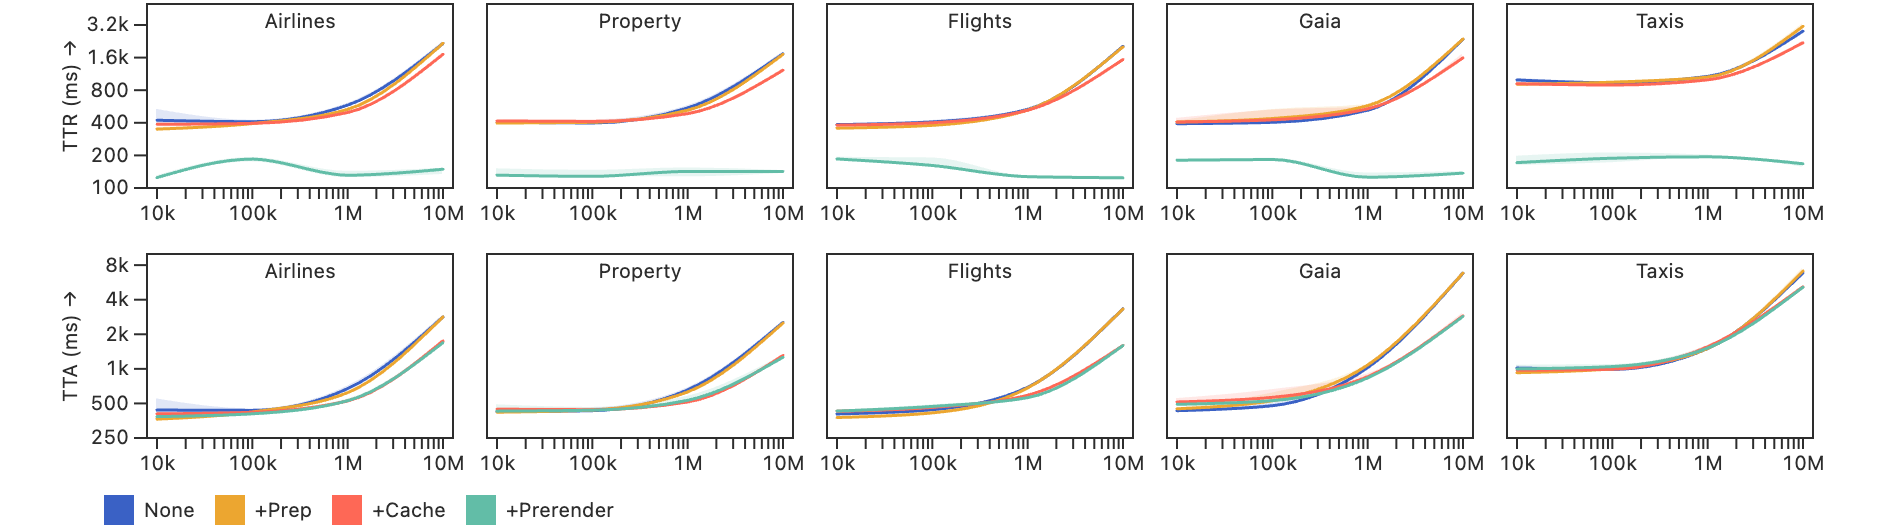
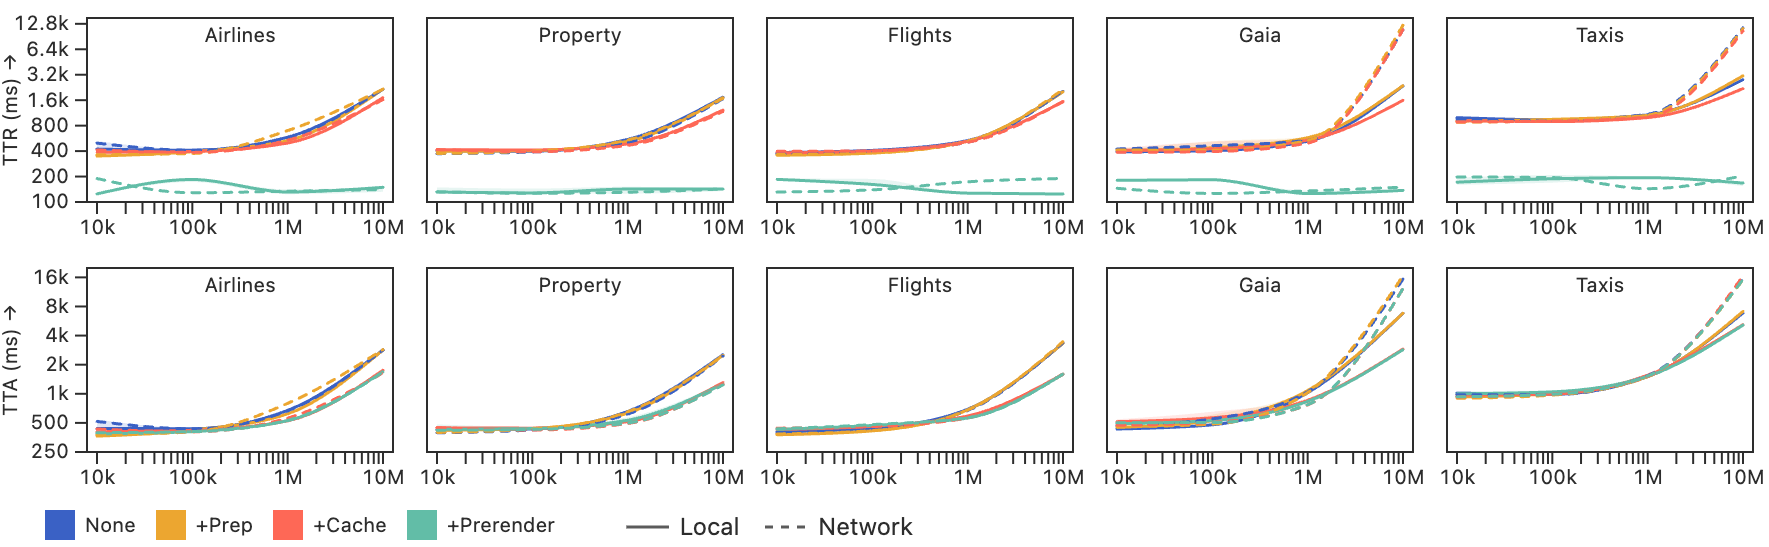
feat: add network benchmark to paper + final changes

Changed region(s): [[0.0, 0.0, 1.0, 0.4242], [0.0, 0.4545, 1.0, 1.0]]

diff --git a/template/template.tex b/template/template.tex
@@ -110,16 +110,14 @@
     {\Large\bfseries <<title>> \par}
     \vspace{1.25cm}
     <<author_names>> \\[2em]
-    A thesis submitted in partial fulfillment of the requirements for the degree of \\[2em]
-    Master of Science (Computer Science \& Engineering) \\[2em]
-    University of Washington \\[1em]
+    A thesis submitted in partial fulfillment of the requirements for the degree of \\[1em]
+    Master of Science (Computer Science \& Engineering) \\
+    University of Washington \\
     2025 \\[2em]
     % Committee members (fill in below)
-    Reading Committee: \\
+    Supervised and Approved by: \\
     % TODO: Fill in committee member names below (no titles, no signatures)
-    \textit{[Committee Member 1]} \\
-    \textit{[Committee Member 2]} \\
-    \textit{[Committee Member 3]} \\[2em]
+    \textit{Jeffrey Heer} \\[2em]
     
     Program Authorized to Offer Degree:\\
     Computer Science \& Engineering
@@ -149,10 +147,8 @@
   {\bfseries Abstract} \\[2em]
   {\large <<title>>} \\[1em]
   <<author_names>> \\[1em]
-  Chair of the Supervisory Committee:\\
-  \textit{[Chair Name]} \\
-  \textit{[Chair Title]} \\
-  \textit{[Chair Department]} \\[2em]
+  Supervised by:\\
+  \textit{Jeffrey Heer} \\[2em]
 \end{center}
 \thispagestyle{plain} % Show page number
 
@@ -197,10 +193,10 @@
 
 % Dedication (after preliminary pages, before main text)
 \clearpage
-\dedication{\begin{center}
-  To my amazing family and girlfriend without whom this thesis would not have been possible.
-  Thank you for your help, love, and support.
-\end{center}}
+% \dedication{\begin{center}
+%   To my amazing family and girlfriend without whom this thesis would not have been possible.
+%   Thank you for your help, love, and support.
+% \end{center}}
 
 % Acknowledgments 
 \clearpage

diff --git a/index.md b/index.md
@@ -51,9 +51,9 @@ To assess their effectiveness, we implement publish-time optimizations for the o
 On average, publish-time strategies reduced rendering latency by 83.7% and activation latency by 33.3%, demonstrating their value for improving the performance of web-based visualizations.
 :::
 
-<!-- ::: acknowledgments
-TODO
-::: -->
+::: acknowledgments
+I would like to extend a heartfelt thank you to my advisor, Jeffery Heer, for his guidance, patience, and to our many thoughtful conversations that shaped this thesis. Thank you as well to my amazing family and my girlfriend---your love, support, and willingness to let me constantly talk about my research made this work possible.
+:::
 
 # Introduction {#intro}
 
@@ -271,53 +271,60 @@ The Mosaic Publisher implementation is available at _anonymized URL_.
 We evaluate the performance impact of the Mosaic Publisher across five visualization specifications (@fig:collage) selected to represent a diverse range of interaction styles, view configurations, and query complexities. These include: **airlines**, a single-view chart with a filter slider and confidence interval overlays; **property**, a raster density plot with interactive regression fits; **flights**, a basic cross-filtering example with linked histograms; **gaia** and **taxis**, complex multi-view dashboards with high-resolution rasters and multiple coordinated selections. (Both the flights and gaia example are taken from the original Mosaic paper [@doi:10.1109/TVCG.2023.3327189].) These examples cover both low and high cardinality selections, different types of interval filtering, and visualization types that stress different optimization paths.
 
 To assess the effects of each optimization category (@sec:characterization), we apply them incrementally: **none** performs all computation at runtime, **+prep** applies data preparation and projection rewrites, **+cache** further precomputes and stores both result caches and materialized aggregates for interaction updates, and **+prerender** adds initial pre-rendered visual outputs with hydration to enable interactivity.
-All benchmarks were run within Node.js v22.9.0 on a 2021 MacBook Pro laptop (14-inch, macOS 15.2) with an M1 Pro processor and 16GB RAM. The visualizations were hosted on a local server with DuckDB-WASM used as the backing database engine.
+All benchmarks were run within Node.js v22.9.0 on a 2021 MacBook Pro laptop (14-inch, macOS 15.2) with an M1 Pro processor and 16GB RAM. Each visualization was accessed locally and tested in two hosting scenarios, local deployment and remote deployment. The remote server used for hosting has 2 14-core 2.6 GHz Intel Xeon Gold processors and 192 GB of RAM running Rocky Linux 9.1, and was accessed from 3 miles away over a WiFi router with a 80Gb/s internet connection. In both hosting scenarios the visualizations used DuckDB-WASM as the backing database engine.
 
-::: table {#raw-data}
+::: table {#raw-data position="h"}
+\vspace{8pt}
 | Optimization | TTR (ms)         | TTA (ms)          | Storage (MB)     | Publish Time (ms)   |
 |--------------|-----------------:|------------------:|-----------------:|--------------------:|
-| none         |      989 \pm 257 |     1640 \pm 656 |     31.3 \pm 20.3 |                     |
-| +prep        |      986 \pm 275 |     1637 \pm 688 |     31.3 \pm 20.3 |        3051 \pm 930 |
-| +cache       |      826 \pm 221 |     1132 \pm 567 |     42.6 \pm 34.8 |        3123 \pm 950 |
-| +prerender   |      156 \pm 15  |     1114 \pm 565 |     42.6 \pm 34.9 |        3113 \pm 960 |
-
-| Average TTR, TTA, Storage Cost, and Publishing Time ($\pm \sigma$) across visualizations and dataset sizes.
-\vspace{-10pt}
+| none         |    2117 \pm 1426 |    2763 \pm 1863 |     31.3 \pm 20.3 |                     |
+| +prep        |    2026 \pm 1234 |    2666 \pm 1679 |     31.3 \pm 20.3 |        3060 \pm 942 |
+| +cache       |    1881 \pm 1216 |    2463 \pm 1926 |     44.4 \pm 37.8 |        3143 \pm 973 |
+| +prerender   |       181 \pm 18 |    2393 \pm 1899 |     44.5 \pm 37.9 |        3112 \pm 995 |
+\vspace{-8pt}
+| Average TTR, TTA, Storage Cost, and Publishing Time ($\pm \sigma$) across visualizations and dataset sizes for the remote deployment scenario.
+\vspace{-8pt}
 :::
 
 ::: figure {#optimizations}
 ![Latencies of Visualization Specifications](assets/optimizations.png)
-| Time-to-Render (TTR, top) and Time-to-Activation (TTA, bottom) across specifications, dataset sizes, and optimizations. Lines show median times in milliseconds, while shaded areas indicate interquartile ranges.
-\vspace{-12pt}
+\vspace{-10pt}
+| Time-to-Render (TTR, top) and Time-to-Activation (TTA, bottom) across deployment scenarios, specifications, dataset sizes, and optimizations. Lines show median times in milliseconds, while shaded areas indicate interquartile ranges.
+\vspace{-10pt}
 :::
 
-@fig:optimizations confirms that without publish-time optimization, both TTR and TTA scale poorly with increasing data size---especially beyond one million rows---due to runtime query execution and rendering.
+@fig:optimizations confirms that without publish-time optimization, both TTR and TTA scale poorly with increasing data size---especially beyond one million rows---due to runtime query execution and rendering. 
 Preparation alone (+prep) did not help the tested visualizations as they don't involve preparatory transformation and don't have extraneous columns; however, it is expected to provide more benefit for visualizations that operate over wide tables with many unvisualized columns or have non-trivial preparation queries.
 Precomputing caches and aggregates (+cache) significantly reduces TTA, especially for datasets with 1M or more rows, enabling the system to respond more quickly to selection interactions.
 However, for smaller dataset sizes these assets can be computed quickly on-the-fly and optimization is not necessary.
 Pre-rendering (+prerender) consistently achieves the lowest TTR across all visualizations and dataset sizes, as rendering is performed entirely at publish time and loaded as static output (@fig:breakdown).
 
 ::: figure {#breakdown}
-\vspace{12pt}
+<!-- \vspace{12pt} -->
 ![Aggregated Latency and Storage Cost by Optimization Level](assets/latency.png)
-| Breakdown of latency components averaged across visualization specifications with a backing dataset of 10 million rows.
-<!-- \vspace{-18pt} -->
+\vspace{-16pt}
+| Breakdown of latency components averaged across visualization specifications and deployment scenarios with a backing dataset of 10 million rows.
+\vspace{-10pt}
 :::
 
 @fig:breakdown further shows that despite removing runtime render cost, pre-rendering still incurs a hydration cost that is nearly equivalent to a full client-side render.
 Future work might explore finer-grained hydration or schemes to reduce this overhead.
-Browser loading and network transfer time remains a stable portion of total latency, with any differences being minor compared to the respective latency improvements, showing that the effect of storage cost in these examples was negligible.
+In both deployment scenarios, browser loading and initial network transfer time remains a stable portion of total latency, with any differences being minor compared to the respective latency improvements, showing that the effect of storage cost in these examples was negligible.
 @tbl:breakdown-raw summarizes these effects numerically.
+Additionally, @fig:optimizations and @tbl:breakdown-raw show that deploying remotely leads to +cache having a smaller impact on TTR and TTA as compared to local deployment. This can be attributed to the fact that in remote deployment, additional assets must be transferred over the network during hydration, partially offsetting the benefit of pre-computing and storing them.
 Across specifications, dataset sizes, and optimizations, the average publishing time is only 1455.3ms $\pm$ 1779.0ms longer than the corresponding unoptimized TTA, making it a reasonable one-time cost.
 Overall, these results demonstrate that publish-time strategies can yield substantial performance improvements to TTR and TTA across interaction and visualization types.
 
 ::: table {#breakdown-raw}
-| Optimization | \Delta SC (%)     | \Delta TTR (%) | \Delta TTA (%) |
-|--------------|------------------:|---------------:|---------------:|
-| +prep        |       0.0 \pm 0.0 |   -0.6 \pm 4.0 |   -1.0 \pm 2.5 |
-| +cache       |     21.1 \pm 29.8 |  -16.6 \pm 1.3 |  -32.3 \pm 8.9 |
-| +prerender   |     21.2 \pm 29.9 |  -83.7 \pm 2.1 |  -33.3 \pm 9.6 |
-
+| Optimization | Deployment | \Delta SC (%)     | \Delta TTR (%) | \Delta TTA (%) |
+|--------------|------------|------------------:|---------------:|---------------:|
+| +prep        | Local      |       0.0 \pm 0.0 |   -0.6 \pm 4.0 |   -1.0 \pm 2.5 |
+|              | Remote     |       0.0 \pm 0.0 |   -0.4 \pm 9.9 |   -0.6 \pm 7.8 |
+| +cache       | Local      |     21.1 \pm 29.8 |  -16.6 \pm 1.3 |  -32.3 \pm 8.9 |
+|              | Remote     |     24.5 \pm 36.4 |  -10.1 \pm 7.0 | -17.4 \pm 10.5 |
+| +prerender   | Local      |     21.2 \pm 29.9 |  -83.7 \pm 2.1 |  -33.3 \pm 9.6 |
+|              | Remote     |     24.7 \pm 36.6 |  -87.4 \pm 6.3 | -20.6 \pm 10.9 |
+\vspace{-8pt}
 | Average percentage changes ($\pm \sigma$) of Storage Cost (SC), Time to Render (TTR), and Time to Action (TTA) across visualizations and dataset sizes relative to no optimizations.
 \vspace{-10pt}
 :::
